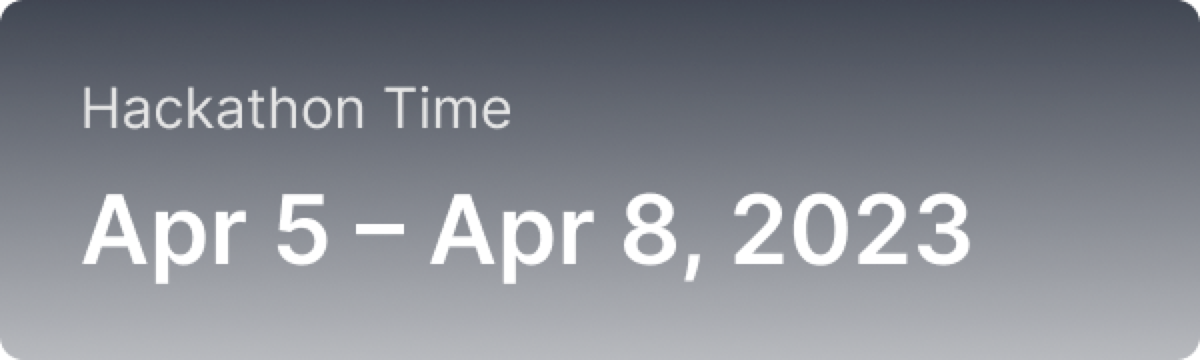
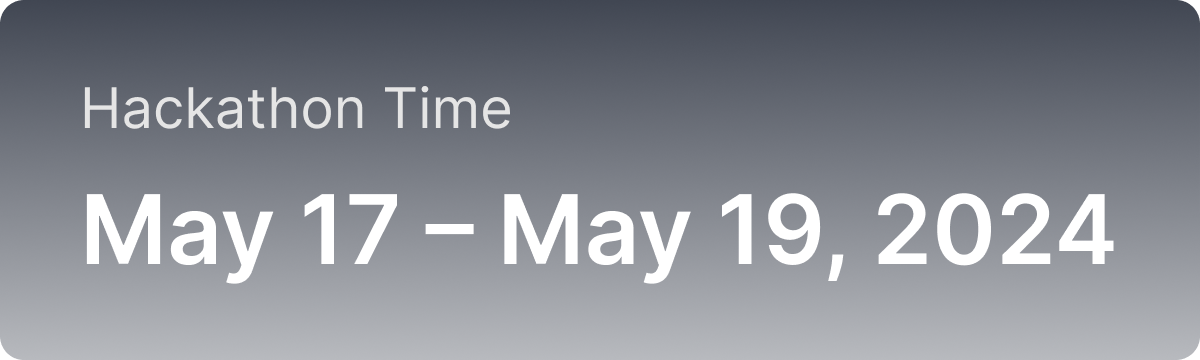
update link

diff --git a/README-cn.md b/README-cn.md
@@ -8,7 +8,7 @@
 ETH Beijing Hackathon是一次在北京举办的面向以太坊开发者的黑客马拉松活动，旨在促进以太坊生态系统在中国的发展。该活动受到以太坊基金会的支持。参与者可以利用活动期间的时间，开发基于以太坊区块链的应用程序或解决方案，并与其他开发者进行交流和合作。ETH Beijing Hackathon是全球以太坊社区中新兴的黑客马拉松，也是推动区块链技术和应用发展的重要平台之一。
 
 ## 时间
-2023年4月5日 - 4月8日
+2024年5月17日 - 5月19日
 
 ## Place
 北京，中国
@@ -23,17 +23,12 @@ $30,000+
 
 ## 申请链接
 
-[链接](https://docs.google.com/forms/d/e/1FAIpQLSe5qyxMneb3JULOdQhDCMvU7eEbnCGKTQ5G1uk1JKAwXC0IKw/viewform?usp=sf_link) (报名已经截止)
-
-## 队伍信息
-
-[队伍信息页面](https://github.com/WTFAcademy/ETHBeijing/blob/main/team-info.md)
-
+[链接](https://docs.google.com/forms/d/e/1FAIpQLScB-3KANUX8Rqoq3V7JZZlPQAAVQL2TW3vens-heTcsxzMF6g/viewform) 
 
 ## 黑客松赛道
 ### 主赛道: 
 
-参赛团队必须从 3 条赛道中选择一条，每个主赛道奖金 $10000，其中第一名 $5000，第二名 $3000，第三名 $2000。
+参赛团队必须从 3 条赛道中选择一条，每个主赛道奖金 $6,000，其中第一名 $3,000，第二名 $2,000，第三名 $1,000。
 
 1. **公共品**: 在以太坊上构建开源项目。
 2. **Layer2 创新应用**: 构建基于Layer 2的创新型应用项目。
@@ -45,41 +40,6 @@ $30,000+
 
 1. **Scroll**: 在 Scroll 上开发去中心化应用。
 
-## Workshop
-### 4月6日
-地点: 东升大厦A座4楼 智优沃孵化器会议室
-![](./img/4.6-workshop.jpeg)
-
-## 日程表
-
-| 日期 | 时间 | 活动 |
-| --- | --- | --- |
-| 4月5日 | 12点 | 签到开始 |
-| | 18点 | 晚饭 |
-| | 19点 | 项目介绍（每个团队2分钟） |
-| | 24点 | 签到结束 |
-| 4月6日 | 全天 | Buidl |
-| | 9点 | 早饭 |
-| | 12点 | 午饭 |
-| | 13-18点 | workshop |
-| | 18点 | 晚饭 |
-| | 19点 | 项目汇报进展 |
-| 4月7日 | 全天 | Buidl |
-| | 9点 | 早饭 |
-| | 12点 | 午饭 |
-| | 13-18点 | workshop |
-| | 18点 | 晚饭 |
-| | 19点 | 项目汇报进展 |
-| 4月8日 | 9点 | 早饭 |
-| | 12点 | 午饭 |
-| | 15点 | 提交项目 |
-| | 15-18点 | 评委第一轮打分 |
-| | 18点 | 晚饭 |
-| | 19点 | Demo Day (每个赛道前5名，每个项目 5 分钟) |
-| | 21点 | After Party |
-
-
-
 
 ## 主办方
 
@@ -88,15 +48,10 @@ $30,000+
 
 ## 协办方
 - [Scroll](https://twitter.com/Scroll_ZKP)
-- [ETHPlanet](https://twitter.com/ETHPlanet)
 
 ## 赞助商
 - [Scroll](https://twitter.com/Scroll_ZKP)
 - [Ethereum Foundation](https://twitter.com/EF_ESP)
-- [Token Pocket](https://twitter.com/TokenPocket_TP)
-- [Mask](https://twitter.com/realMaskNetwork)
-- [LD Capital](https://twitter.com/LD_Capital)
-- [Cocos BCX](https://twitter.com/CocosBCX)
 
 ## 合作伙伴和支持社区
 - [Dorahacks](https://twitter.com/DoraHacks)
@@ -108,7 +63,7 @@ $30,000+
 
 ### ETH Beijing（以太坊北京）是什么?
 
-ETH Beijing 黑客松是一个让以太坊开发者齐聚北京并搭建项目的活动，2023年4月5日 - 4月8日（共 72 小时）。
+ETH Beijing 黑客松是一个让以太坊开发者齐聚北京并搭建项目的活动，2024年5月17日 - 5月19日（共 48 小时）。
 
 ### 谁被鼓励参加这个活动？
 

diff --git a/README.md b/README.md
@@ -2,7 +2,7 @@
 # ETH Beijing Hackathon
 [中文](./README-cn.md)
 ## Time
-April 05 - April 08, 2023
+May 17 - May 19, 2024
 
 ## Place
 Beijing, China
@@ -17,7 +17,7 @@ $30,000+
 
 ## Application link
 
-[Application](https://docs.google.com/forms/d/e/1FAIpQLSe5qyxMneb3JULOdQhDCMvU7eEbnCGKTQ5G1uk1JKAwXC0IKw/viewform?usp=sf_link) (Already Closed)
+[Application](https://docs.google.com/forms/d/e/1FAIpQLScB-3KANUX8Rqoq3V7JZZlPQAAVQL2TW3vens-heTcsxzMF6g/viewform)
 
 ## Team Info
 
@@ -26,7 +26,7 @@ $30,000+
 ## Hackathon Track
 ### Main track
 
-Teams must choose one of the 3 main tracks. Each main track has $10,000 in prize, including $5,000 for the 1st, $3,000 for the 2nd, and $2,000 for the 3rd.
+Teams must choose one of the 3 main tracks. Each main track has $6,000 in prize, including $3,000 for the 1st, $2,000 for the 2nd, and $1,000 for the 3rd.
 
 1. **Public Goods**: Build open-source projects on Ethereum.
 2. **Innovative Layer2 Dapp**: Build projects on Layer 2 that surprise.
@@ -36,12 +36,6 @@ Teams must choose one of the 3 main tracks. Each main track has $10,000 in prize
 Besides participating in the main track, teams can optionally choose to participate in the sponsor track. Each sponsor track has $2500 in prize, including $1500 for the 1st and $1000 for the 2nd.
 
 1. **Scroll**: Develop decentralized applications on Scroll.
-
-## Workshop
-
-### April.6
-![](./img/4.6-workshop.jpeg)
-
 ## Organizer
 
 - [PKU Blockchain](https://twitter.com/PKUBlockchain)
@@ -49,15 +43,10 @@ Besides participating in the main track, teams can optionally choose to particip
 
 ## Co-organizer
 - [Scroll](https://twitter.com/Scroll_ZKP)
-- [ETHPlanet](https://twitter.com/ETHPlanet)
 
 ## Sponsor
 - [Scroll](https://twitter.com/Scroll_ZKP)
 - [Ethereum Foundation](https://twitter.com/EF_ESP)
-- [Token Pocket](https://twitter.com/TokenPocket_TP)
-- [Mask](https://twitter.com/realMaskNetwork)
-- [LD Capital](https://twitter.com/LD_Capital)
-- [Cocos BCX](https://twitter.com/CocosBCX)
 
 ## Partner & Supporting Communities
 - [Dorahacks](https://twitter.com/DoraHacks)
